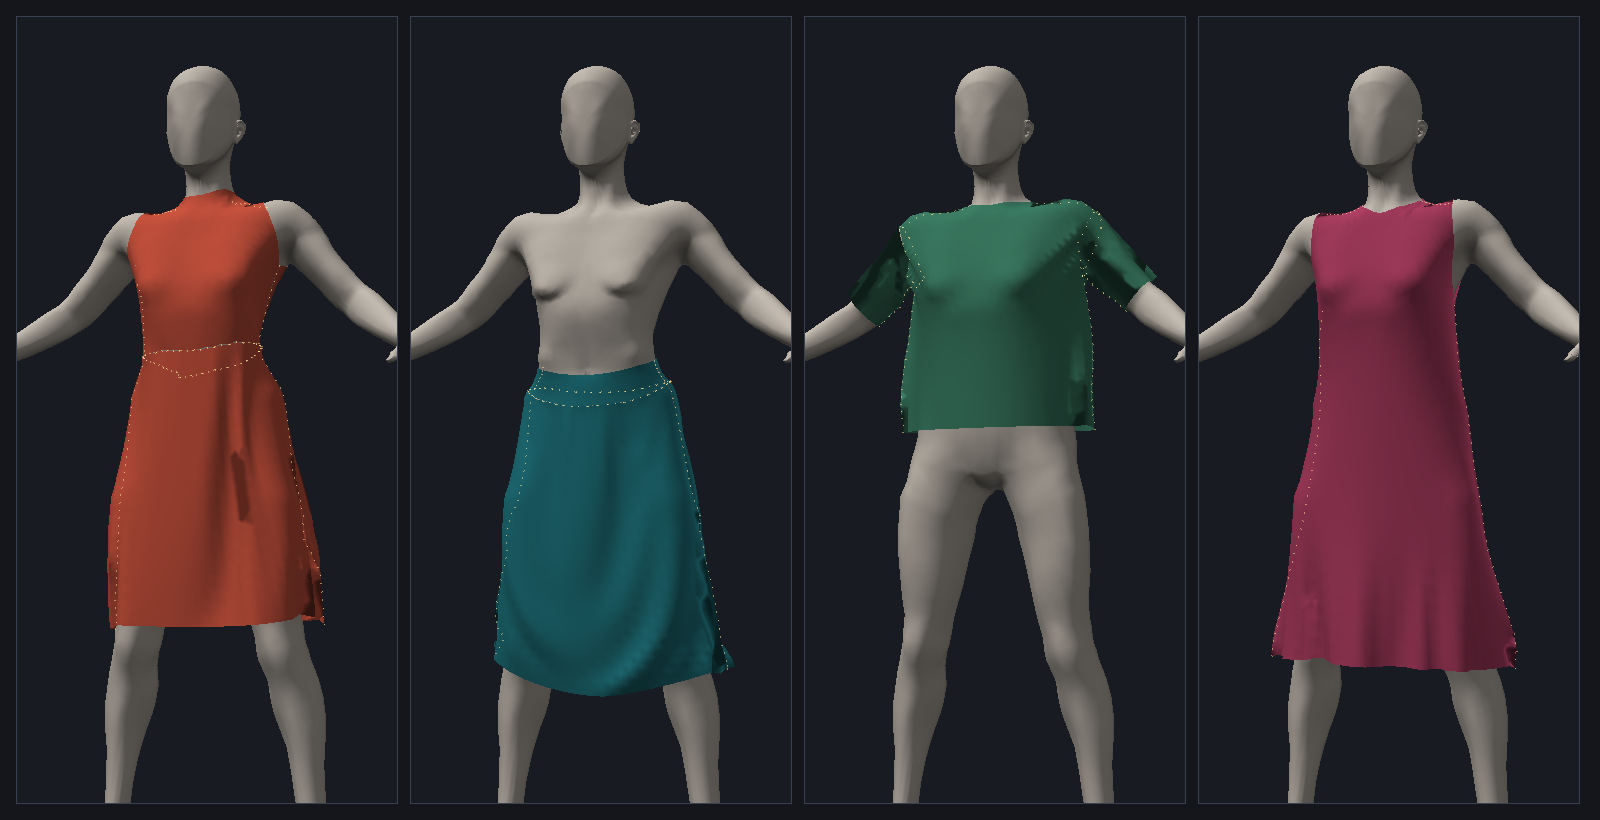
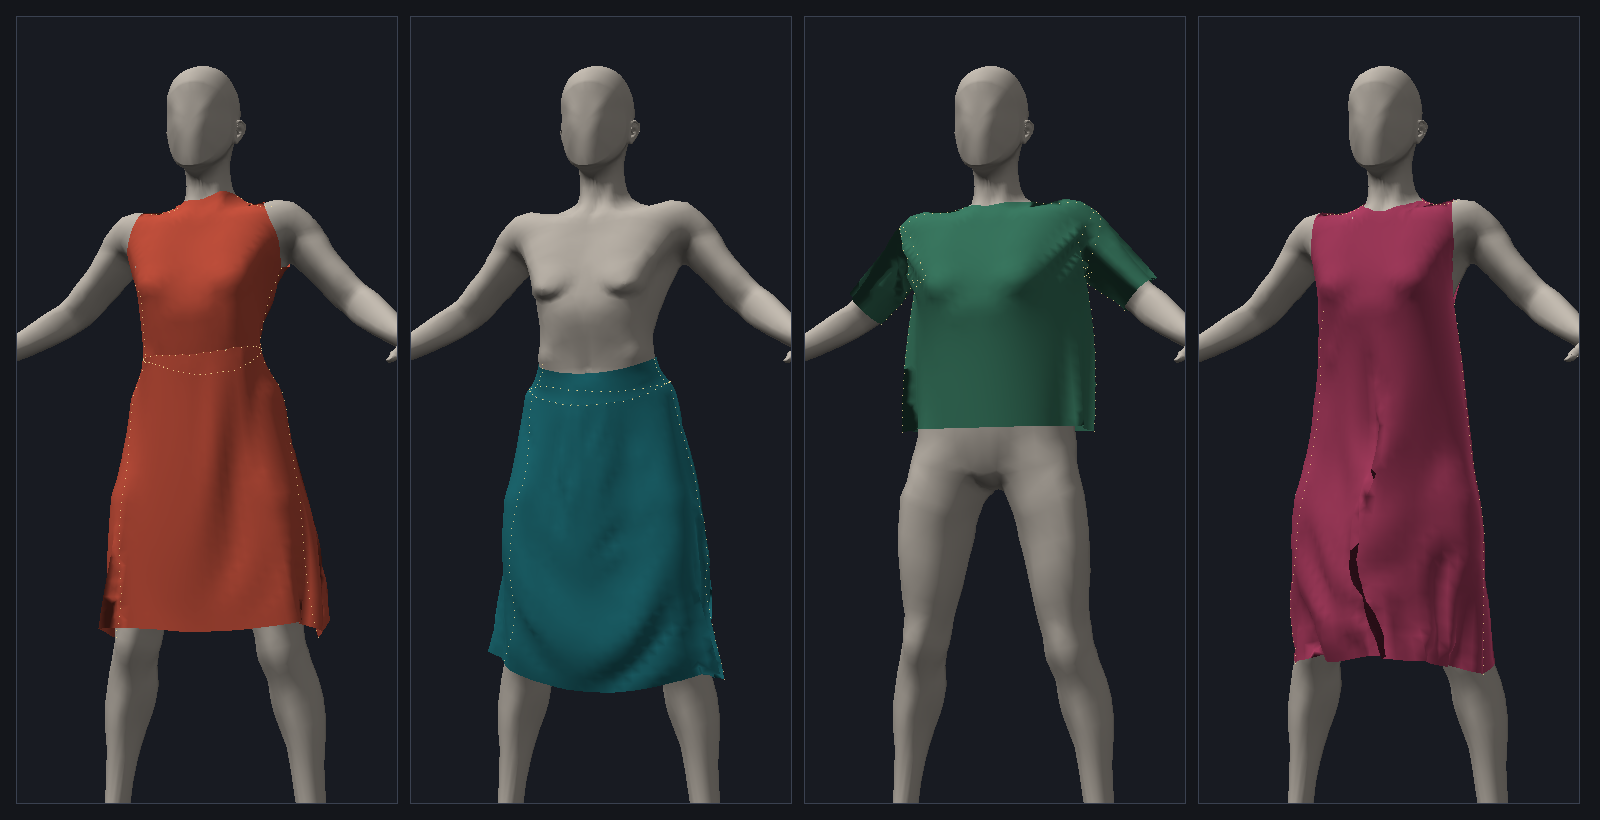
WebGpuClothAccelerator: eliminate redundant CPU-mode GPU sync allocations and refresh drape exhibits

diff --git a/Experimental/ClothEditor/Engine/WebGpuClothAccelerator.js b/Experimental/ClothEditor/Engine/WebGpuClothAccelerator.js
@@ -813,9 +813,12 @@ export class WebGpuClothAccelerator
         }
         if (this.readbackBusy)
             return true;
-        // Architecture switched back from a CPU-only path (C–F): re-upload the authoritative CPU state first,
-        // otherwise the GPU would keep integrating a stale pose and the cloth would look frozen.
-        if (this._lastSteppedMode !== solver.solverMode)
+
+        const isGpuSolver = solver.solverMode === 'avbd' || solver.solverMode === 'xpbd';
+
+        // Architecture switched back from a CPU-only path (C–F) to a GPU path (A/B): re-upload the authoritative
+        // CPU state first, otherwise the GPU would keep integrating a stale pose and the cloth would look frozen.
+        if (isGpuSolver && this._lastSteppedMode !== solver.solverMode)
         {
             this.syncStateToGpu(solver);
             this._lastSteppedMode = solver.solverMode;
@@ -823,9 +826,10 @@ export class WebGpuClothAccelerator
 
         if (solver.windEnabled || solver.grabVertex >= 0)
             solver.wakeUp();
+
         // Research solver candidates C–F (Cosserat / GN-knot / JGS2 / Kawabata) carry CPU-side state that the
         // current 8-buffer WGSL pipeline does not yet mirror, so they run on the deterministic CPU solver.
-        if (solver.solverMode !== 'avbd' && solver.solverMode !== 'xpbd')
+        if (!isGpuSolver)
         {
             this._lastSteppedMode = 'cpu';
             solver.stepFrame(dt);
